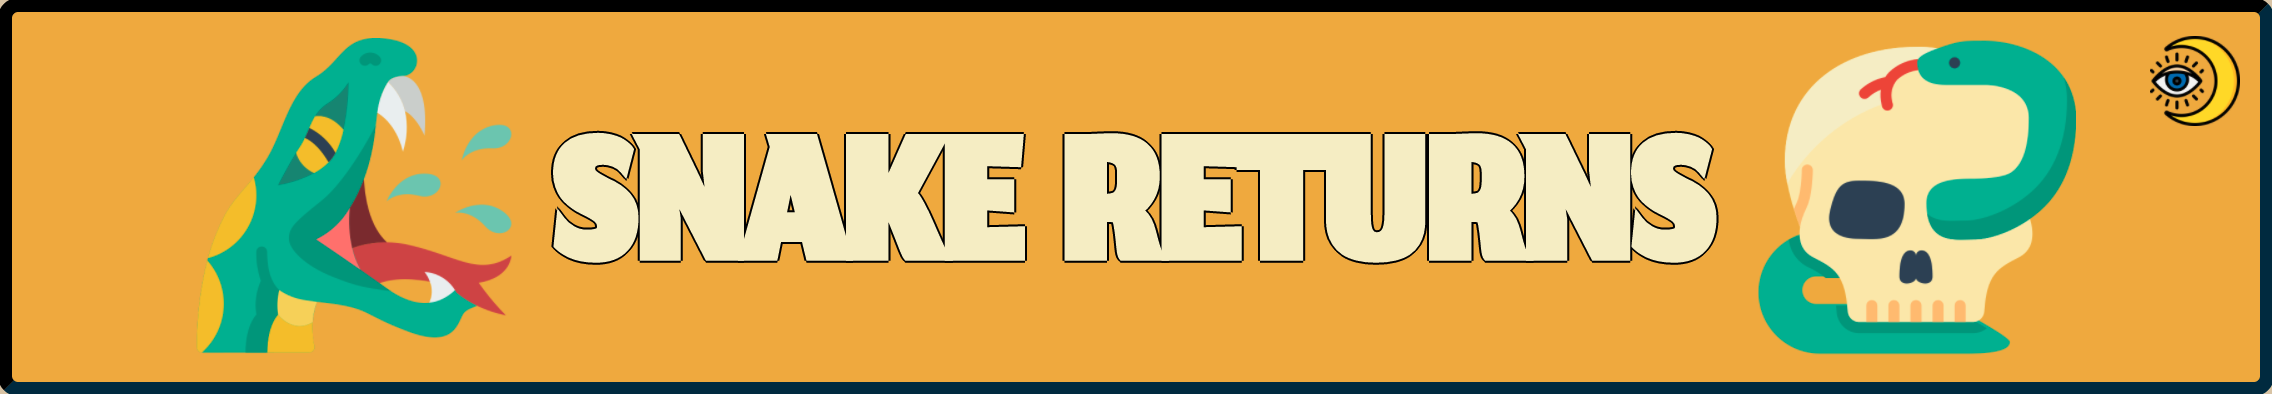
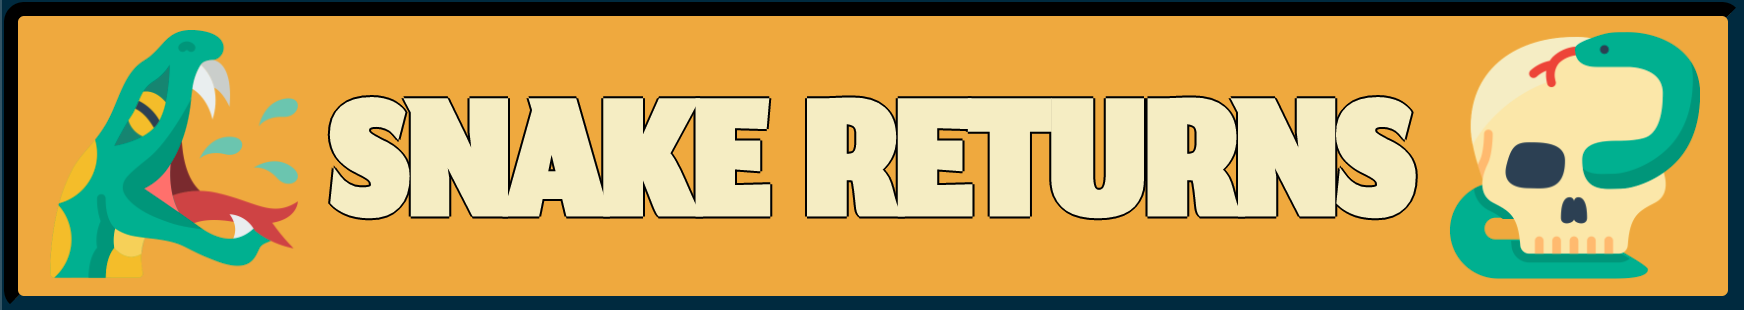
readme updates

diff --git a/css/style.css b/css/style.css
@@ -20,7 +20,7 @@ html {
 }
 
 body {
-    --body-bg-color: #dbcaac;
+    --body-bg-color: #eae2b7; 
 
     --header-bg-color: #ebb13d;
     --header-text-color: #F5EFC9;
@@ -63,7 +63,6 @@ body {
 }
 
 body.dark {
-    
     --body-bg-color: #1a1712;
 
     --header-bg-color: #003049;
@@ -114,13 +113,13 @@ header {
 
 header > #title-image-left {
     max-height: 180px;
-    margin: 0px 0px 0px 50px;
+    margin: 0px 10px 0px 40px;
     padding: 10px 0px;
 }
 
 header > #title-image-right {
     max-height: 180px;
-    margin: 0px 50px 0px 0px;
+    margin: 0px 40px 0px 10px;
     padding: 10px 0px;
 }
 
@@ -138,7 +137,7 @@ header > #title {
 
 header > #dark-mode-btn {
     position: absolute;
-    top: 7px;
+    top: 5px;
     right: 5px;
     width: 45px;
     z-index: 2;
@@ -358,24 +357,29 @@ footer > #score > #score-number {
 }
 
 /* small screen styling */
-@media only screen and (max-width: 1024px)  {
+@media only screen and (max-width: 1124px)  {
 
     header > #title-image-left {
         max-height: 140px;
-        margin: 0px 0px 0px 10px;
+        margin: 0px 0px 0px 45px;
         padding: 7px 0px;
     }
     
     header > #title-image-right {
         max-height: 140px;
-        margin: 0px 10px 0px 0px;
+        margin: 0px 45px 0px 0px;
         padding: 7px 0px;
     }
 
     header > #title {
         font-size: 14rem;  
         padding-top: 25px;
-        margin: 5px 6px;
+        
+        margin: 5px 16px;
+    }
+
+    header > #dark-mode-btn {
+        width: 43px
     }
 
     footer {
